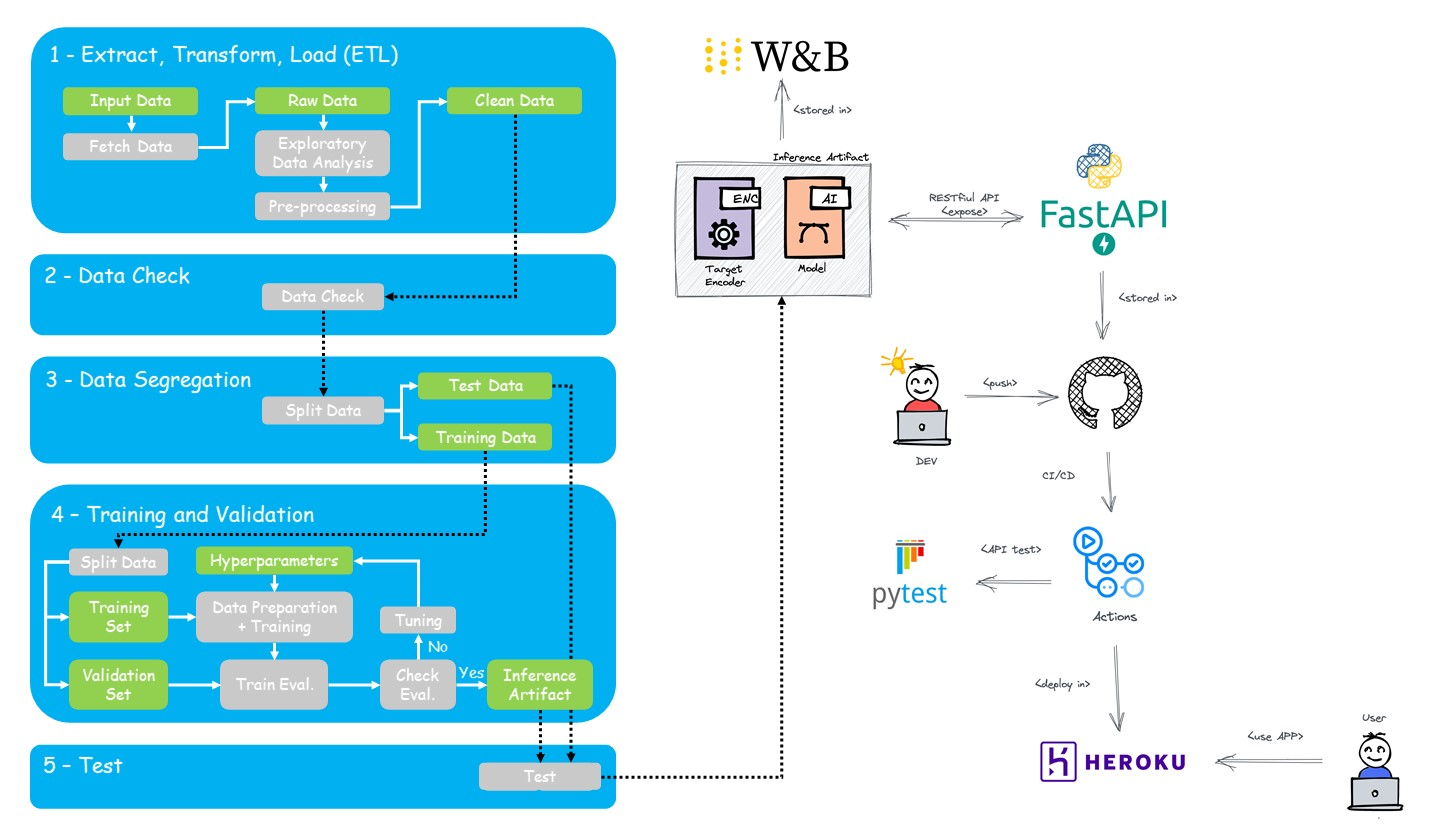
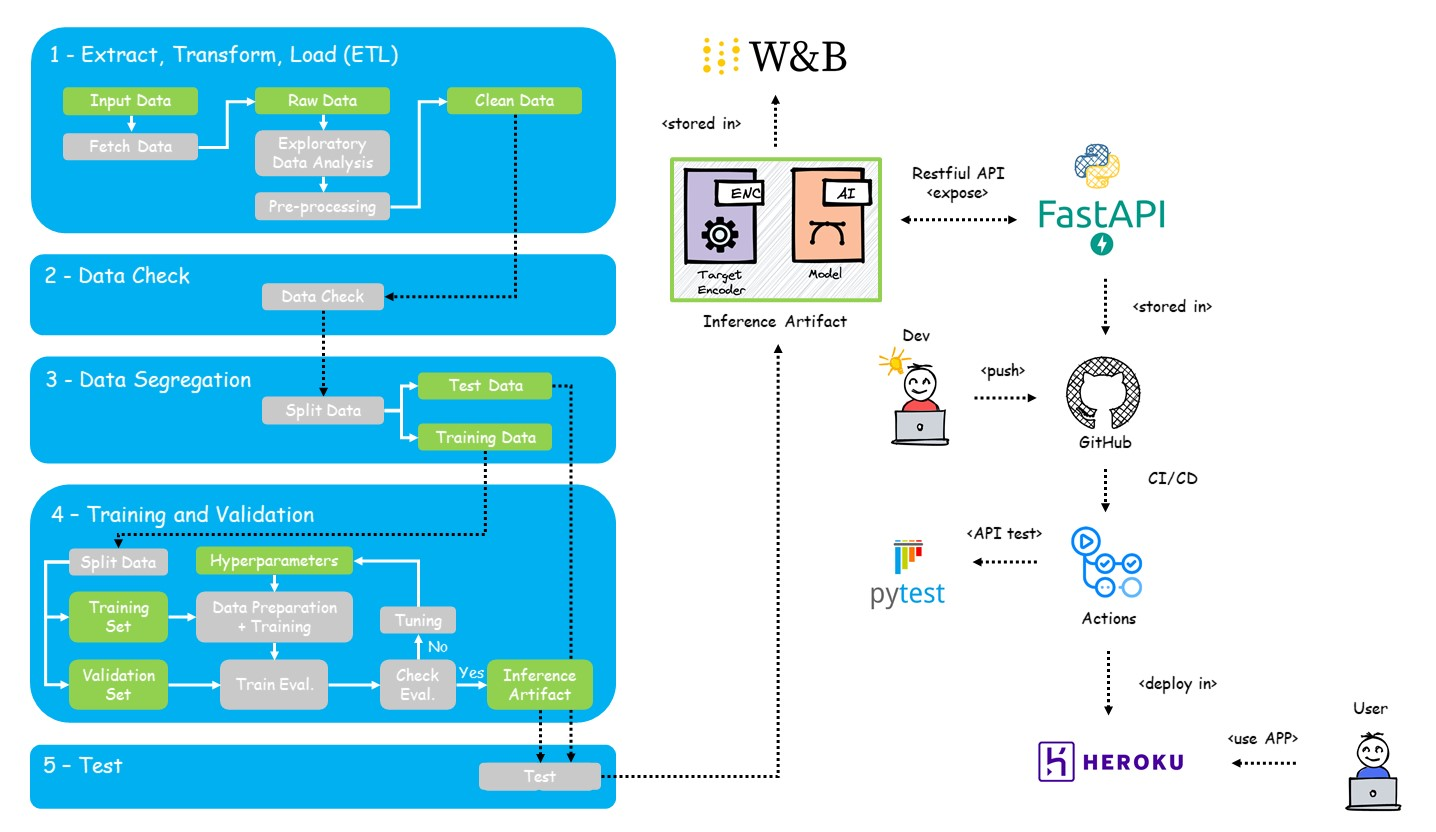
updating README, model_card, bigPicture

diff --git a/model_card/model_card.md b/model_card/model_card.md
@@ -8,8 +8,8 @@ Inspired by [Model Cards for Model Reporting (Mitchell et al.)](https://arxiv.or
 
 * Developed by students during the Machine Learning discipline (EEC1509) of the Postgraduate Program in Electrical and Computer Engineering at the Technology Center of the Federal University of Rio Grande do Norte, in May 2022.
 * A complete data pipeline was built using Google Colab, Scikit-Learn and Weights & Bias to train a Decision Tree Classification Model. Access to the file [here](https://github.com/jmacleal/customer_churn_prediction/blob/main/source/ml_project/churn_prediction.ipynb). 
-* The data pipeline is composed of the following stages: 1) ``Extract, Transform and Load (ETL)``, 2) ``Data Check``, 3) ``Data Segregation``, 4) ``Trainning``, 5) ``Testing``.
-* GitHub, FastAPI and Heroku are used for deploy the pipeline in production. See the aplication [here](https://customer--churn--prediction.herokuapp.com/docs).
+* The data pipeline is composed of the following stages: 1) ``Extract, Transform and Load (ETL)``, 2) ``Data Check``, 3) ``Data Segregation``, 4) ``Trainning and Validation``, 5) ``Test``.
+* FastAPI, GitHub, PyTest and Heroku are used for deploy the pipeline in production. See the aplication [here](https://customer--churn--prediction.herokuapp.com/docs).
 
 A big picture of the project is presented below.
 

diff --git a/README.md b/README.md
@@ -18,8 +18,8 @@ Perform the prediction of customer dropout of a given service.
 
 ## Project Description
 This project develops a complete data pipeline with a Decision Tree Classification Model, using Google Colab, Scikit-Learn and Weights & Bias. The Jupter Notebook script is here [source/ml_project/churn_prediction.ipynb](https://github.com/jmacleal/customer_churn_prediction/blob/main/source/ml_project/churn_prediction.ipynb).
-The data pipeline is composed of the following stages: 1) ``Extract, Transform and Load (ETL)``, 2) ``Data Check``, 3) ``Data Segregation``, 4) ``Trainning``, 5) ``Testing``.
-It is put in production and deployed using GitHub, FastAPI and Heroku. See the aplication [here](https://customer--churn--prediction.herokuapp.com/docs).
+The data pipeline is composed of the following stages: 1) ``Extract, Transform and Load (ETL)``, 2) ``Data Check``, 3) ``Data Segregation``, 4) ``Trainning and Validation``, 5) ``Test``.
+It is put in production and deployed using FastAPI, GitHub, PyTest and Heroku. See the aplication [here](https://customer--churn--prediction.herokuapp.com/docs).
 A big picture of the project is presented below.
 
 <center><img width="800" src="images/bigPicture.jpg"></center>
